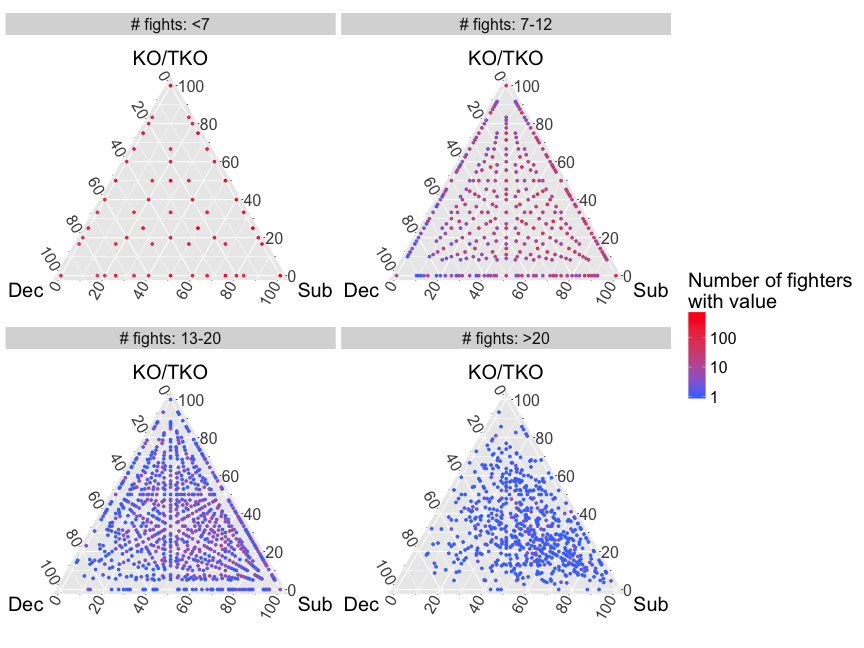
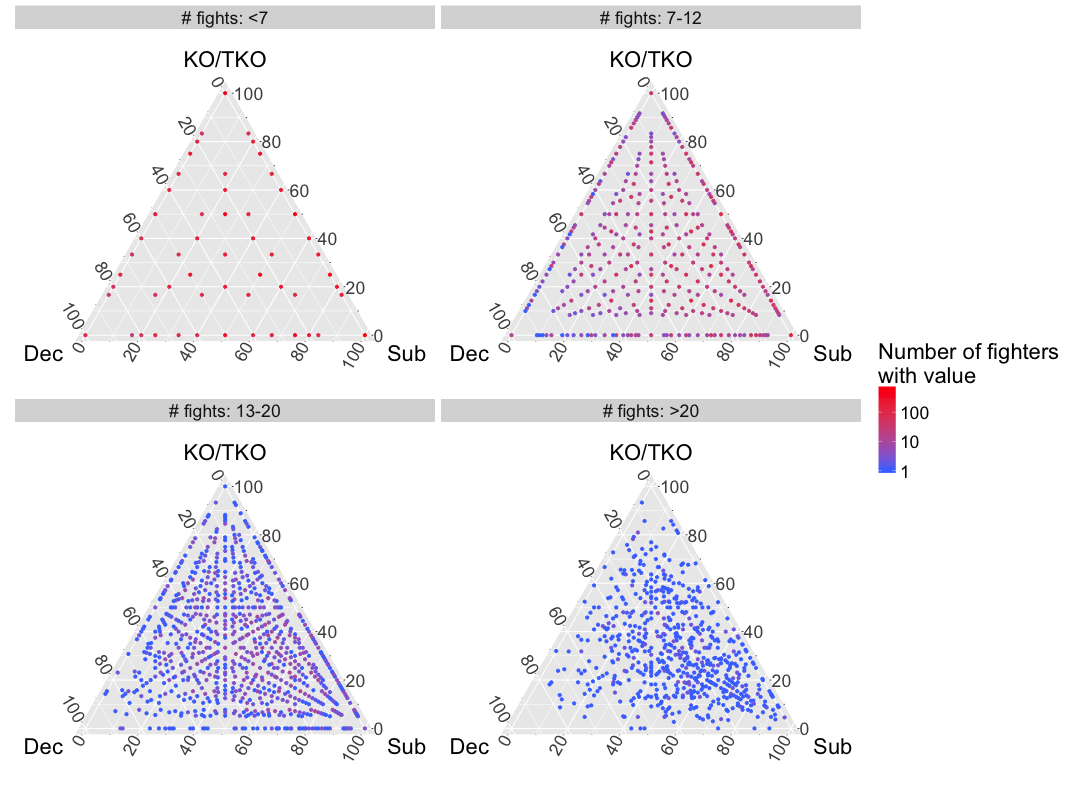
new post on ranking fighter win method preferences using a hierarchical Dirichlet-Multinomial model

diff --git a/_site/index.html b/_site/index.html
@@ -115,11 +115,11 @@
     </h2>
 
     <span class="post-date">20 Dec 2016</span>
-    <p>Ranking athletes is a common problem across all sports. In Mixed Martial Arts (MMA), one of the most popular ways of summarizing fighters is based on their primary method of winning. The major winning methods are: (1) TKO/KO: a fighter uses punches, kicks, etc. to either incapacitate the opponent (KO) or force a stoppage (TKO), (2) Submission: through chokes or joint locks a fighter forces his/her opponent to tap out, (3) Decision: the fight goes its full length and a panel of judges declare the winner.</p>
+    <p>Ranking athletes is a common problem across all sports. In Mixed Martial Arts (MMA), one of the most popular ways of summarizing fighters is based on their primary method of winning. The major winning methods are: (1) KO/TKO: a fighter uses punches, kicks, etc. to either incapacitate the opponent (KO) or force a stoppage (TKO), (2) Submission: through chokes or joint locks a fighter forces his/her opponent to tap out, (3) Decision: the fight goes its full length and a panel of judges declare the winner.</p>
 
 <p>The relative value of these three win methods is an important summary of a fighter’s style which is both reported by <a href="http://www.ufc.com/schedule/event">UFC’s pre-fight summary</a> and is one of <a href="http://www.sherdog.com/fighter/Andrei-Arlovski-270">Sherdog’s main summaries of a fighter</a>. Despite the importance of win method preference for summarizing fighters, it is difficult to rank fighters by their method preferences (the % of all wins by each method); using this metric, amateur fighters (with few wins to date) will often appear to be more specialized than experienced fighters. For example, a fighter who has won 3/3 times using strikes would appear to exclusively win by striking, while a fighter with 49/50 wins by striking would seem less specialized. Clearly, the latter fighter is probably a stronger striker because he/she has repeatedly demonstrated this preference, whereas there is more uncertainty about the former fighter.</p>
 
-<p>Here, I formalize this intuition by balancing fighter-specific results with patterns across fighters using a statistical approach based on empirical Bayesian analysis: a hierarchical Dirichlet-Multinomial model. Using this approach, I can fairly rank fighters accounting for their variable experience. Based on these experience-corrected rankings, Conor McGregor and Cris Cyborg are among the top 10 striking specialists in the UFC. Overall, the fighter who most reliably wins by KO/TKO is K1 veteran Melvin Manhoef. Ronda Rousey and Dominick Cruz are top 10 in the UFC for winning by submission and decision, respectively.</p>
+<p>Here, I formalize this intuition by balancing fighter-specific results with patterns across fighters using a statistical approach based on empirical Bayesian analysis: a hierarchical Dirichlet-Multinomial model. Using this approach, I can fairly rank fighters accounting for their variable experience. Based on these experience-corrected rankings, Conor McGregor and Cris Cyborg are among the top 10 striking specialists in the UFC (K1 veteran Melvin Manhoef is top overall). Ronda Rousey and Dominick Cruz are top 10 in the UFC for winning by submission and decision, respectively.</p>
 
 <p><img src="http://127.0.0.1:4000/figure/source/2016-12-20-rankingMethods/method_table-1.png" alt="Fighter Win Method Rankings" class="align-center" /></p>
 

diff --git a/_site/archive/index.html b/_site/archive/index.html
@@ -111,7 +111,7 @@
 
 <ul>
   <li>
-    <p>20 Dec 2016 » <a href="/2016/12/20/rankingMethods/"> MMA styles II: ranking the top striking, submission and decision specialists </a>. Constructing a network of MMA fighting styles</p>
+    <p>20 Dec 2016 » <a href="/2016/12/20/rankingMethods/"> MMA styles II: ranking the top striking, submission and decision specialists </a>. A hierarchical Dirichlet-Multinomial model of winning style preferences</p>
   </li>
   <li>
     <p>29 Sep 2016 » <a href="/2016/09/29/finishCooccurrence/"> MMA styles I: grouping finishes using large-scale data </a>. Constructing a network of MMA fighting styles</p>

diff --git a/_posts/2016-12-20-rankingMethods.md b/_posts/2016-12-20-rankingMethods.md
@@ -1,23 +1,21 @@
 ---
 title: "MMA styles II: ranking the top striking, submission and decision specialists"
-description: "Constructing a network of MMA fighting styles"
+description: "A hierarchical Dirichlet-Multinomial model of winning style preferences"
 author: sean
 layout: post
 comments: true
-tags: [R, MCMC, styles]
+tags: [R, MCMC, mixed-membership, styles]
 ---
 
-Ranking athletes is a common problem across all sports. In Mixed Martial Arts (MMA), one of the most popular ways of summarizing fighters is based on their primary method of winning. The major winning methods are: (1) TKO/KO: a fighter uses punches, kicks, etc. to either incapacitate the opponent (KO) or force a stoppage (TKO), (2) Submission: through chokes or joint locks a fighter forces his/her opponent to tap out, (3) Decision: the fight goes its full length and a panel of judges declare the winner.
+Ranking athletes is a common problem across all sports. In Mixed Martial Arts (MMA), one of the most popular ways of summarizing fighters is based on their primary method of winning. The major winning methods are: (1) KO/TKO: a fighter uses punches, kicks, etc. to either incapacitate the opponent (KO) or force a stoppage (TKO), (2) Submission: through chokes or joint locks a fighter forces his/her opponent to tap out, (3) Decision: the fight goes its full length and a panel of judges declare the winner.
 
 The relative value of these three win methods is an important summary of a fighter's style which is both reported by [UFC's pre-fight summary](http://www.ufc.com/schedule/event) and is one of [Sherdog's main summaries of a fighter](http://www.sherdog.com/fighter/Andrei-Arlovski-270). Despite the importance of win method preference for summarizing fighters, it is difficult to rank fighters by their method preferences (the % of all wins by each method); using this metric, amateur fighters (with few wins to date) will often appear to be more specialized than experienced fighters. For example, a fighter who has won 3/3 times using strikes would appear to exclusively win by striking, while a fighter with 49/50 wins by striking would seem less specialized. Clearly, the latter fighter is probably a stronger striker because he/she has repeatedly demonstrated this preference, whereas there is more uncertainty about the former fighter.
 
-Here, I formalize this intuition by balancing fighter-specific results with patterns across fighters using a statistical approach based on empirical Bayesian analysis: a hierarchical Dirichlet-Multinomial model. Using this approach, I can fairly rank fighters accounting for their variable experience. Based on these experience-corrected rankings, Conor McGregor and Cris Cyborg are among the top 10 striking specialists in the UFC. Overall, the fighter who most reliably wins by KO/TKO is K1 veteran Melvin Manhoef. Ronda Rousey and Dominick Cruz are top 10 in the UFC for winning by submission and decision, respectively.
+Here, I formalize this intuition by balancing fighter-specific results with patterns across fighters using a statistical approach based on empirical Bayesian analysis: a hierarchical Dirichlet-Multinomial model. Using this approach, I can fairly rank fighters accounting for their variable experience. Based on these experience-corrected rankings, Conor McGregor and Cris Cyborg are among the top 10 striking specialists in the UFC (K1 veteran Melvin Manhoef is top overall). Ronda Rousey and Dominick Cruz are top 10 in the UFC for winning by submission and decision, respectively.
 
 ![Fighter Win Method Rankings]({{ site.url }}/figure/source/2016-12-20-rankingMethods/method_table-1.png){: .align-center }
 
 <!--more-->
-
-My full quantitative analysis of this problem follows:
 
 ## Summarizing Raw Data
 
@@ -52,18 +50,18 @@ knitr::kable(fighter_win_methods %>%
 
 
 
-|Fighter_link                      | Decision| KO/TKO| Submission|
-|:---------------------------------|--------:|------:|----------:|
-|/fighter/Kevin-Zalac-37937        |        2|      4|          4|
-|/fighter/Micol-DiSegni-171627     |        4|      0|          1|
-|/fighter/William-Kassulker-61219  |        0|      1|          3|
-|/fighter/Denis-Silva-159537       |        2|      3|          2|
-|/fighter/Enrique-Diarte-101923    |        0|      3|          1|
-|/fighter/Juergen-Dolch-37794      |        1|      2|          1|
-|/fighter/Gilcimar-de-Jesus-114099 |        1|      4|          0|
-|/fighter/Isaac-Villanueva-41384   |        2|      9|          0|
-|/fighter/Gi-Bum-Moon-139205       |        3|      1|          0|
-|/fighter/Kassim-Annan-3159        |        0|      2|          8|
+|Fighter_link                            | Decision| KO/TKO| Submission|
+|:---------------------------------------|--------:|------:|----------:|
+|/fighter/Jon-Hill-38397                 |        0|     10|          2|
+|/fighter/Povilas-Markevicius-4340       |        1|      0|          4|
+|/fighter/Jarrett-Wainohu-62716          |        1|      1|          2|
+|/fighter/Niko-Lohmann-43694             |        0|      1|          5|
+|/fighter/Yuichiro-Yajima-12923          |        0|      2|         17|
+|/fighter/Glauber-Duncan-Santiago-174139 |        2|      0|          2|
+|/fighter/Josh-Tyler-73391               |        2|      1|          4|
+|/fighter/Petr-Vacek-85491               |        2|      2|          1|
+|/fighter/Mike-Marrello-17807            |        5|      1|          8|
+|/fighter/Alfred-Khashakyan-133919       |        0|      8|          0|
 
 To start thinking about how to analyze this data, it is useful to do some exploratory visualization. Because I am interested in each fighter's relative investment in the three methods (KO/TKO, Submission, Decision), ternary diagrams are an attractive visualization approach. Ternary diagrams plot the relative value of three categories (e.g. \\(x, y, z\\)), constrained to sum to one (\\(x + y + z = 1\\)), within a triangle where proximity to each corner indicates the relative affinity for that category. I will use a ternary diagram to visualize each fighter's counts of KO/TKO, submissions and decisions normalized to the sum of these three variables. I also stratify the partitions of fighters based upon experience (# of fights informing the estimate).
 
@@ -105,32 +103,33 @@ dks_partition_counts <- dks_partition_counts %>%
 
 ggtern(dks_partition_counts, aes(x = Dec, y = `KO/TKO`, z = Sub, color = n)) +
   geom_mask() +
-  geom_point(size = 1) +
+  geom_point(size = 1.2) +
   facet_wrap(~ bin, ncol = 2) +
   scale_color_continuous("Number of fighters\nwith value", low = "royalblue1", high = "red", trans = "log10") +
   suppressWarnings(limit_tern(1.05, 1.05, 1.05)) +
-  theme(text = element_text(size = 20))
+  theme(text = element_text(size = 22))
 {% endhighlight %}
 
 <img src="/figure/source/2016-12-20-rankingMethods/unnamed-chunk-2-1.png" title="plot of chunk unnamed-chunk-2" alt="plot of chunk unnamed-chunk-2" style="display: block; margin: auto;" />
 
 There are only a small number of distinct combinations of methods that an inexperienced fighters could have won by (\\(3^{n}\\)). Accordingly, many fighters have either exclusively won by a single method or have won by only two of the three possible methods. Transitioning to more experienced fighters, most fighters have a method proportion that is not on the boundary of the ternary diagram. For these experienced fighters, observed method proportions should be a fairly accurate estimate of a fighter's future win methods. That is, observed method proportions accurately estimate \\(\Pr(\text{Method\|Fighter})\\). The method proportions of inexperienced fighters are more dubious predictors of this quantity because they overfit to observed win methods, thereby discounting that considerable uncertainty about these fighters exists. 
 
-To allow for fair estimation of fighters' method preferences (\\(\Pr(\text{Method\|Fighter})\\)) without regard to their level of experience, we can balance fighter-specific data with broader trends across fighters by estimating the distribution of methods \\(\Pr(\text{Method}\\) and utilizing this as a prior on the fighter-specific estimates. This prior will encompass both how common each method is and the extent to which fighters are method specialists (residing near the corners of the ternary diagram) or generalists (residing near the center of the ternary diagram).
+To allow for fair estimation of fighters' method preferences (\\(\Pr(\text{Method\|Fighter})\\)) without regard to their level of experience, we can balance fighter-specific data with broader trends across fighters by estimating the distribution of methods (\\(\Pr(\text{Method})\\)) and utilizing this as a prior on the fighter-specific estimates. This prior will encompass both how common each method is and the extent to which fighters are method specialists (residing near the corners of the ternary diagram) or generalists (residing near the center of the ternary diagram).
 
 ## Sharing information across fighters using a hierarchical model
 
 Fighters' win methods can be summarized by the \\(I \times K\\) matrix \\(\mathbf{N}\\) containing counts of each win method (\\(k \in 1, 2, 3\\)) by each fighter (\\(i \in 1, 2, ..., I\\)). These counts can be thought of as drawn from fighter-specific Multinomial distributions parameterized by \\(\theta_{i.}\\). The Multinomial distribution is frequently used to represent data like dice rolls, but we generally don't assume that each side is equally prevalent; instead, we are interested in estimating side probabilities. Due to the nature of this data, \\(\theta\\)s sum to 1 across the \\(K = 3\\) categories for each fighter \\(i\\), and \\(\theta_{ik}\\) equals the expected probability of the \\(k\\)th method for the \\(i\\)th fighter. In order to share information across fighters, we assume that these fighter-specific proportions are drawn from a single prior distribution. (This is why it's called a hierarchical model.) A logical prior to place on the multinomially distributed fighter data is a Dirichlet distribution. Because the Dirichlet distribution is a conjugate prior to the Multinomial, the distributions can be cleanly combined to generate a closed form solution for the posterior (which will be the same distribution as the prior).
 
 $$
-n_{i.} \sim \text{Multi}(\theta_{i.}, \sum{n.})\\
+n_{i.} \sim \text{Multi}(\theta_{i.}, \sum{n_{i.}})\\
 \theta_{i.} \sim \text{Dir}(\alpha_{1}, \alpha_{2}, \alpha_{3})
 $$
-This hierarchical Dirichlet-Multinomial relationship combines the Multinomial, which behaves similar to the ternary summary above, with the Dirichlet which will add pseudocounts of \\(\alpha_{k}\\) to the \\(n_{ik}\\) of each fighter \\(i\\). Adding the \\(\alpha\\) pseudocounts to an inexperienced fighter will shrink their estimated \\(\Pr(\text{Method\|Fighter})\\) towards the overall frequency of methods, while this addition will not greatly impact an experienced fighter with a large amount of data.
 
-To further clarify how the Multinomial and Dirichlet will work together, we can consider that the Dirichlet-Multinomial distribution is a generalization of the Beta-Binomial to an arbitrary number of categories, \\(K\\). The Beta-Binomial distribution considers just two categories, like with a coin flip. For a good resource on this distribution, Dave Robinson has nicely explained the importance of applying a Beta prior on Binomial baseball batting data (hits/total pitches) on [his blog](http://varianceexplained.org/r/empirical_bayes_baseball/). As another example of Beta-Binomial, we can consider estimating a coin's \\(\Pr(\text{heads})\\). If we flip a single coin 20 times and obtain 15 heads and 5 tails, the observed \\(\Pr(\text{heads})\\) is pretty far from the fair expectation (i.e. \\(\Pr(\text{heads}) = 0.5\\)). But, we should also assume that most coins are fair unless the data strongly overrules our assumption. Because of our strong prior assumptions regarding the behavior of coins, we should put a Beta prior on \\(\Pr(\text{heads\|flips})\\) with fairly big parameters (lets say that its parameters \\(\alpha\\) and \\(\beta\\), which are equivalent to the \\(\alpha\\) parameters in the Dirichlet-Multinomial, are each 10). Because of the form of the Beta-Binomial, when we combine the prior and posterior, our posterior estimate of \\(\Pr(\text{heads\|flips})\\) will have an expectation of \\(\frac{H + \alpha}{H + \alpha + T + \beta} = \frac{15 + 10}{15 + 10 + 5 + 10} = 0.625\\). Thus, we have shrunken our small amount of data on a single coin towards the behavior of coins overall.
+This hierarchical Dirichlet-Multinomial relationship combines the Multinomial, which behaves like rolling a weighted \\(K\\) sided die, with the Dirichlet which adds $\alpha_{k}$ pseudocounts to each fighter's record's count of that method. Adding the \\(\alpha\\) pseudocounts to an inexperienced fighter will shrink their estimated \\(\Pr(\text{Method\|Fighter})\\) towards the overall frequency of methods, while this addition will not greatly impact an experienced fighter with a large amount of data.
 
-One of the cool things about conjugate distributions like the Beta-Binomial and Dirichlet-Multinomial is that we can cleanly combine the prior and likelihood (of data, having assumed parameters), updating our prior belief based upon data. So, if we had some strong belief about the values of $\alpha$, then we could update our estimate of \\(\Pr(\text{Method\|Fighter})\\), encompassing this prior belief (the form of this update will be very similar to the coin example). Another cool property of the Dirichlet-Multinomial is that if we do not know the \\(\alpha\\)s values and instead want to estimate these prior hyperparameters, we can integrate over fighter's \\(\theta\\)s so that we can directly relate the support for our observed data (\\(N\\)) given the hyperparameters on our prior (\\(\alpha\\)s).
+To further clarify how the Multinomial and Dirichlet will work together, we can consider that the Dirichlet-Multinomial distribution is a generalization of the Beta-Binomial from two categories (e.g. yes and no) to an arbitrary number of categories, \\(K\\). For a good resource on this distribution, Dave Robinson has nicely explained the importance of applying a Beta prior on Binomial baseball batting data (hits/total pitches) on [his blog](http://varianceexplained.org/r/empirical_bayes_baseball/). As another example of Beta-Binomial, we can consider estimating a coin's \\(\Pr(\text{heads})\\). If we flip a single coin 20 times and obtain 15 heads and 5 tails, the observed \\(\Pr(\text{heads})\\) is pretty far from the fair expectation (i.e. \\(\Pr(\text{heads}) = 0.5\\)). But, we should also assume that most coins are fair unless the data strongly overrules our assumption. Because of our strong prior assumptions regarding the behavior of coins, we should put a Beta prior on \\(\Pr(\text{heads\|flips})\\) with fairly big parameters (lets say that its parameters \\(\alpha\\) and \\(\beta\\), which are equivalent to the \\(\alpha\\) parameters in the Dirichlet-Multinomial, are each 10). Because of the form of the Beta-Binomial, when we combine the prior and posterior, our posterior estimate of \\(\Pr(\text{heads\|flips})\\) will have an expectation of \\(\frac{H + \alpha}{H + \alpha + T + \beta} = \frac{15 + 10}{15 + 10 + 5 + 10} = 0.625\\). Thus, we have shrunken our small amount of data on a single coin towards the behavior of coins overall.
+
+One of the cool things about conjugate distributions like the Beta-Binomial and Dirichlet-Multinomial is that we can cleanly combine the prior and likelihood (of data, having assumed parameters), updating our prior belief based upon data. So, if we had some strong belief about the values of \\(\alpha\\), then we could update our estimate of \\(\Pr(\text{Method\|Fighter})\\), encompassing this prior belief (the form of this update will be very similar to the coin example). Another cool property of the Dirichlet-Multinomial is that if we do not know the \\(\alpha\\) values and instead want to estimate these prior hyperparameters, we can integrate over fighter's \\(\theta\\)s so that we can directly relate the support for our observed data (\\(N\\)) given the hyperparameters on our prior (\\(\alpha\\)s).
 
 $$
 \Pr(\mathbf{N}|\mathbf{\alpha}) = \int_{\Theta}\Pr(\mathbf{N}|\Theta)Pr(\Theta|\mathbf{\alpha})d\Theta\\
@@ -139,7 +138,8 @@ $$
 \log(\Pr(\mathbf{N}|\mathbf{\alpha})) = I\left[\log(\Gamma(A)) -\sum_{k=1}^{K}\log(\Gamma(\alpha_{k}))\right] +
 \sum_{i}\left[- \log(\Gamma(N_{i} + A)) + \sum_{k=1}^{K}\log(\Gamma(n_{ik} + \alpha_{k}))\right]
 $$
-Here, \\(A = \sum_{k}^{K}\alpha\\) and \\(N_{i} = \sum_{k}^{K}n_{ik}\\). The second step is a known property of the Dirichlet-Multinomial. The third step log-transforms the marginal joint probability such that individual terms in the expression can be separately calculated without worrying about the product numerically rounding to zero. The fourth step refactors the summation so that it can be easily calculated during optimization. From this final expression, it is straightforward to determine the overall probability of our dataset for a given set of $\alpha$ parameters. To instead determine optimal \\(\alpha\\) values given the dataset (the inverse problem), different sets of \\(\alpha\\) values can be proposed and evalutated using Markov Chain Monte Carlo (MCMC) in order to hone in on values of \\(\alpha\\) that best agree with our observed data.
+
+Here, \\(A = \sum_{k}^{K}\alpha\\) and \\(N_{i} = \sum_{k}^{K}n_{ik}\\). The second step is a known property of the Dirichlet-Multinomial. The third step log-transforms the marginal joint probability such that individual terms in the expression can be separately calculated without worrying about the product numerically rounding to zero. The fourth step refactors the summation so that it can be easily calculated during optimization. From this final expression, it is straightforward to determine the overall probability of our dataset for a given set of \\(\alpha\\) parameters. To instead determine optimal \\(\alpha\\) values given the dataset (the inverse problem), different sets of \\(\alpha\\) values can be proposed and evalutated using Markov Chain Monte Carlo (MCMC) in order to hone in on values of \\(\alpha\\) that best agree with our observed data.
 
 ## Solving for prior parameters using MCMC
 
@@ -178,7 +178,7 @@ alphas_current <- tibble::data_frame(Method = unique(fighter_win_methods$Method)
   dplyr::mutate(alpha = rgamma(n = n(), shape = gamma_shape, rate = gamma_rate))
 current_logLik <- multi_dirich_logLik(fighter_total_counts, fighter_method_counts, alphas_current)
 
-n_steps <- 5000
+n_steps <- 4000
 
 logLik_track <- rep(NA, floor(n_steps/20))
 alpha_track <- list()
@@ -232,18 +232,18 @@ method_breakdown <- alpha_posterior %>%
       dplyr::select(-n),
     by = "Method")
 
-knitr::kable(method_breakdown, digits = 3)
+knitr::kable(method_breakdown %>% dplyr::select(Method, `Method Proportion` = Method_fraction, alpha, `alpha Proportion` = alpha_frac) , digits = 3)
 {% endhighlight %}
 
 
 
-|Method     | alpha| sample|    logLik| alpha_frac| Method_fraction|
-|:----------|-----:|------:|---------:|----------:|---------------:|
-|Decision   | 1.275|     63| -158636.4|      0.262|           0.234|
-|KO/TKO     | 1.620|     63| -158636.4|      0.332|           0.334|
-|Submission | 1.977|     63| -158636.4|      0.406|           0.432|
+|Method     | Method Proportion| alpha| alpha Proportion|
+|:----------|-----------------:|-----:|----------------:|
+|Decision   |             0.234| 1.273|            0.261|
+|KO/TKO     |             0.334| 1.617|            0.332|
+|Submission |             0.432| 1.979|            0.406|
 
-Using MCMC I generated a distribution of \\(\alpha\\) parameter sets. From these samples, for the sake of convenience, I chose the MAP (the maximum posterior probability) estimate as a single consensus set of \\(\alpha\\) values. Inspecting the values of the MAP \\(\alpha\\)s, \\(\alpha_{k}/\sum \alpha\\) values are similar to \\(\frac{\sum_{i}n_{ik}}{\sum_{ik}n_{ik}}\\). This reveals that our prior has a similar shape to the popularity of individual methods, thereby adding weights of method to a fighter's record based on the frequency of this method overall. The total magnitude of these \\(\alpha\\)s, 5, indicates how many total fights are effectively added to each fighter's career.
+Using MCMC I generated a distribution of \\(\mathbf{\alpha}\\) parameter sets. From these samples, for the sake of convenience, I chose the MAP (the maximum posterior probability) estimate as a single consensus set of \\(\alpha\\) values. Inspecting the values of the MAP \\(\alpha\\)s, \\(\alpha_{k}/\sum \alpha\\) values are similar to \\(\frac{\sum_{i}n_{ik}}{\sum_{ik}n_{ik}}\\). This reveals that our prior has a similar shape to the popularity of individual methods, thereby adding weights of method to a fighter's record based on the frequency of this method overall. The total magnitude of these \\(\alpha\\)s, 4.87, indicates how many total fights are effectively added to each fighter's career.
 
 ### Estimating \\(\Pr(\text{Method\|Fighter})\\)
 
@@ -306,6 +306,7 @@ ranking_plot <- ggplot(data = top_fighter_stats %>%
         panel.grid.major = element_blank(),
         panel.grid.minor = element_blank(),
         panel.grid.major.x = element_line(size = 0.5, color = "gray70"),
+        axis.ticks.x = element_line(size = 0.5, color = "gray70"),
         strip.text = element_text(size = 24),
         title = element_text(size = 24),
         axis.text.y = element_blank(),
@@ -358,11 +359,11 @@ ggtern(value_grid, aes(x = Dec, y = `KO/TKO`, z = Sub)) +
   # background Pr distribution
   geom_point_swap(aes(fill = Pr_method)) +
   # Pr(method) for individual fighters
-  geom_point(data = method_breakdown_summary, aes(color = n), size = 0.3) +
+  geom_point(data = method_breakdown_summary, aes(color = n), size = 1) +
   scale_fill_gradientn("Pr(Method)", colors = c("gray90", "orange", "red")) +
   facet_wrap(~ bin, ncol = 2) +
   scale_color_continuous("Number of fighters\nwith value", low = "darkslategray1", high = "royalblue1", trans = "log10") +
-  theme(text = element_text(size = 20))
+  theme(text = element_text(size = 22))
 {% endhighlight %}
 
 <img src="/figure/source/2016-12-20-rankingMethods/unnamed-chunk-3-1.png" title="plot of chunk unnamed-chunk-3" alt="plot of chunk unnamed-chunk-3" style="display: block; margin: auto;" />
